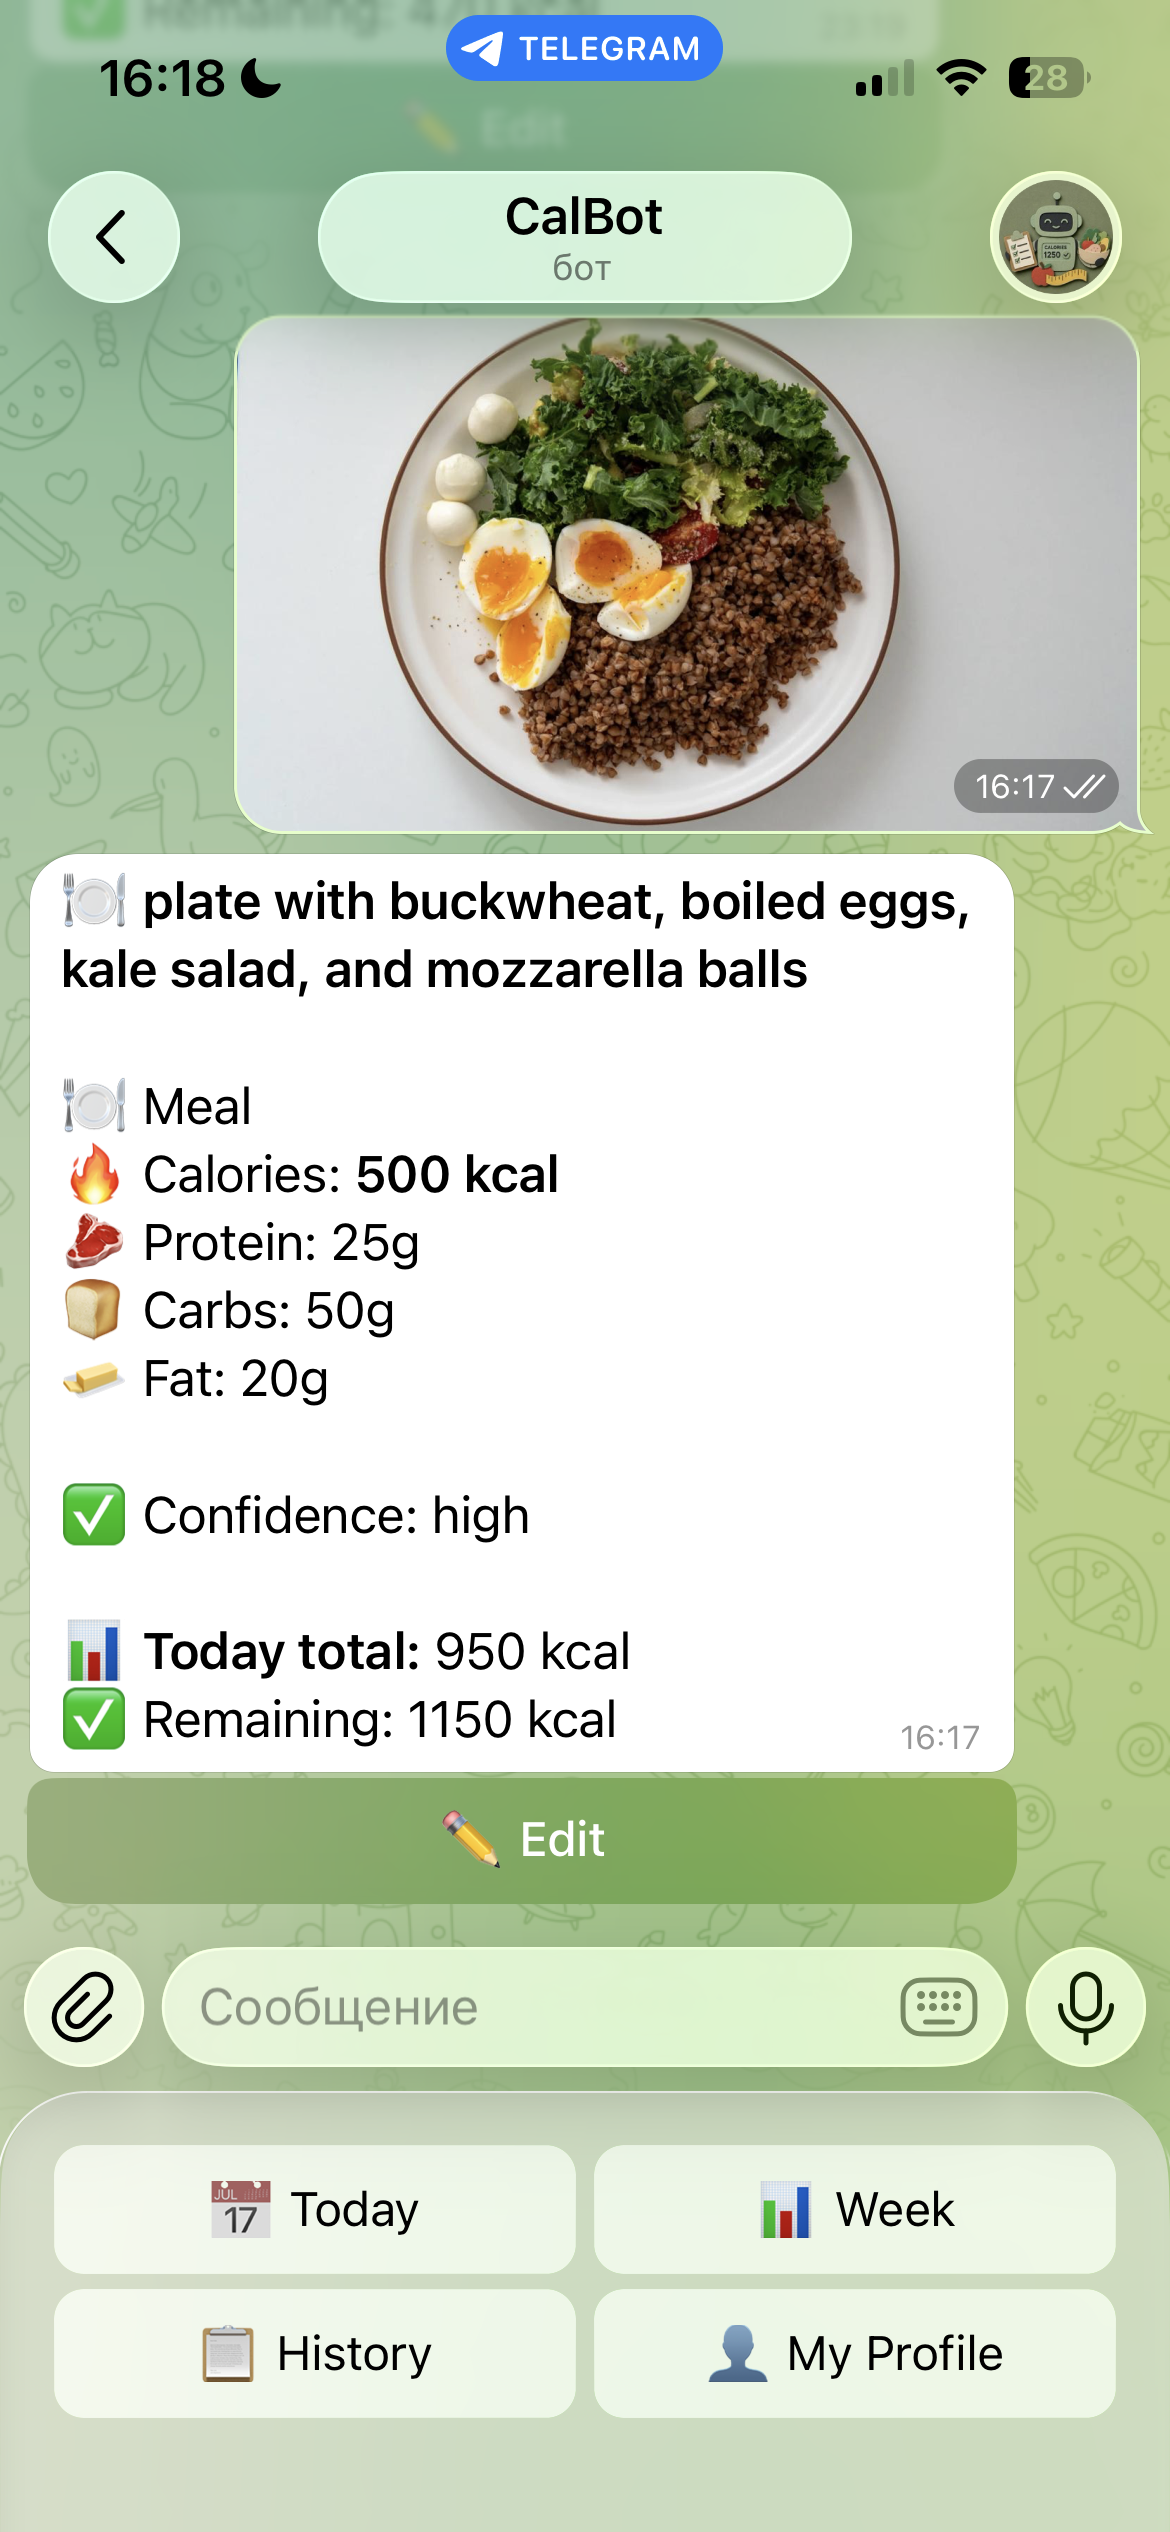
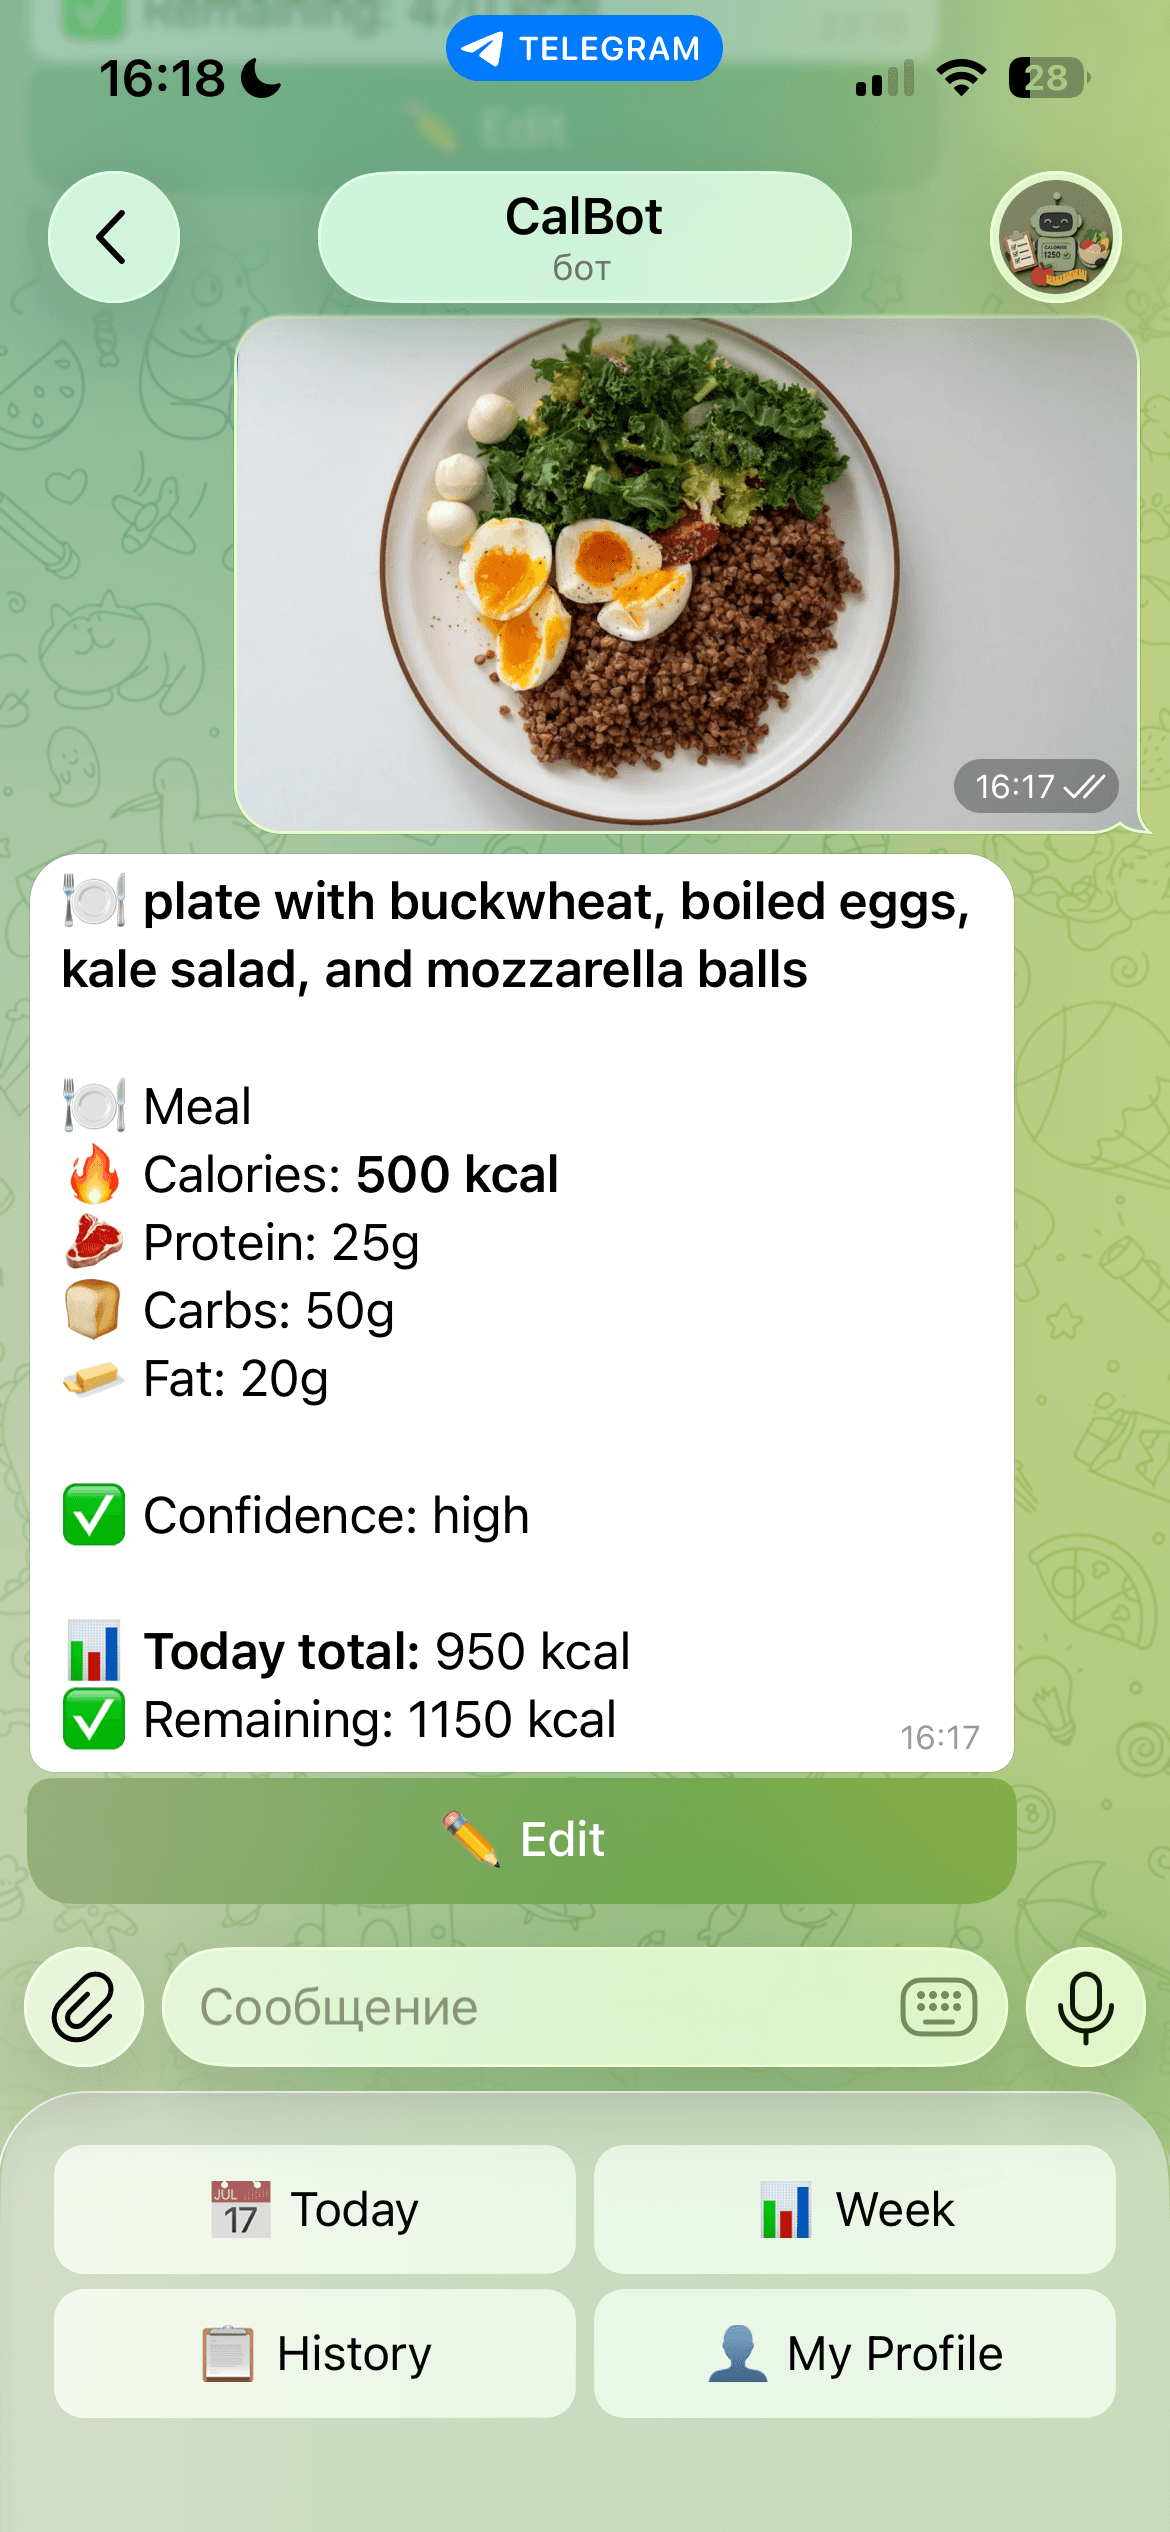
fix

diff --git a/app/layout.tsx b/app/layout.tsx
@@ -25,7 +25,21 @@ export default function RootLayout({
       <head>
         <Script src="https://telegram.org/js/telegram-web-app.js" strategy="beforeInteractive" />
       </head>
-      <body>{children}</body>
+      <body>
+        {children}
+        <Script
+          src="https://www.googletagmanager.com/gtag/js?id=G-18YQT06FRZ"
+          strategy="afterInteractive"
+        />
+        <Script id="google-analytics" strategy="afterInteractive">
+          {`
+            window.dataLayer = window.dataLayer || [];
+            function gtag(){dataLayer.push(arguments);}
+            gtag('js', new Date());
+            gtag('config', 'G-18YQT06FRZ');
+          `}
+        </Script>
+      </body>
     </html>
   );
 }
